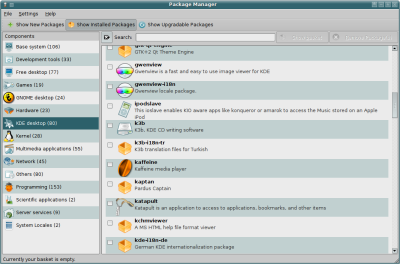
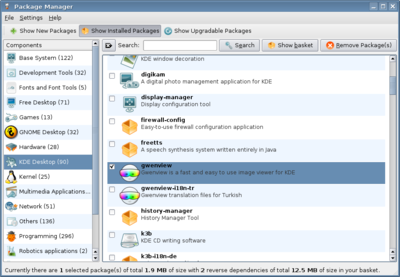
yeni ekran görüntüleri

diff --git a/trunk/web/miss/eng/projects/masaustu/tasma/index.html b/trunk/web/miss/eng/projects/masaustu/tasma/index.html
@@ -59,8 +59,8 @@ pardus system by requirements
                   <td><img src="../../../images/tasma-en-2.png"></td>
                 </tr>
                 <tr>
-                  <td><img src="../../../images/tasma-en-5.png"></td>
-                  <td><img src="../../../images/tasma-en-6.png"></td>
+                  <td><img src="../../../images/tasma-en-3.png"></td>
+                  <td><img src="../../../images/tasma-en-4.png"></td>
                 </tr>
               </tbody>
             </table>
